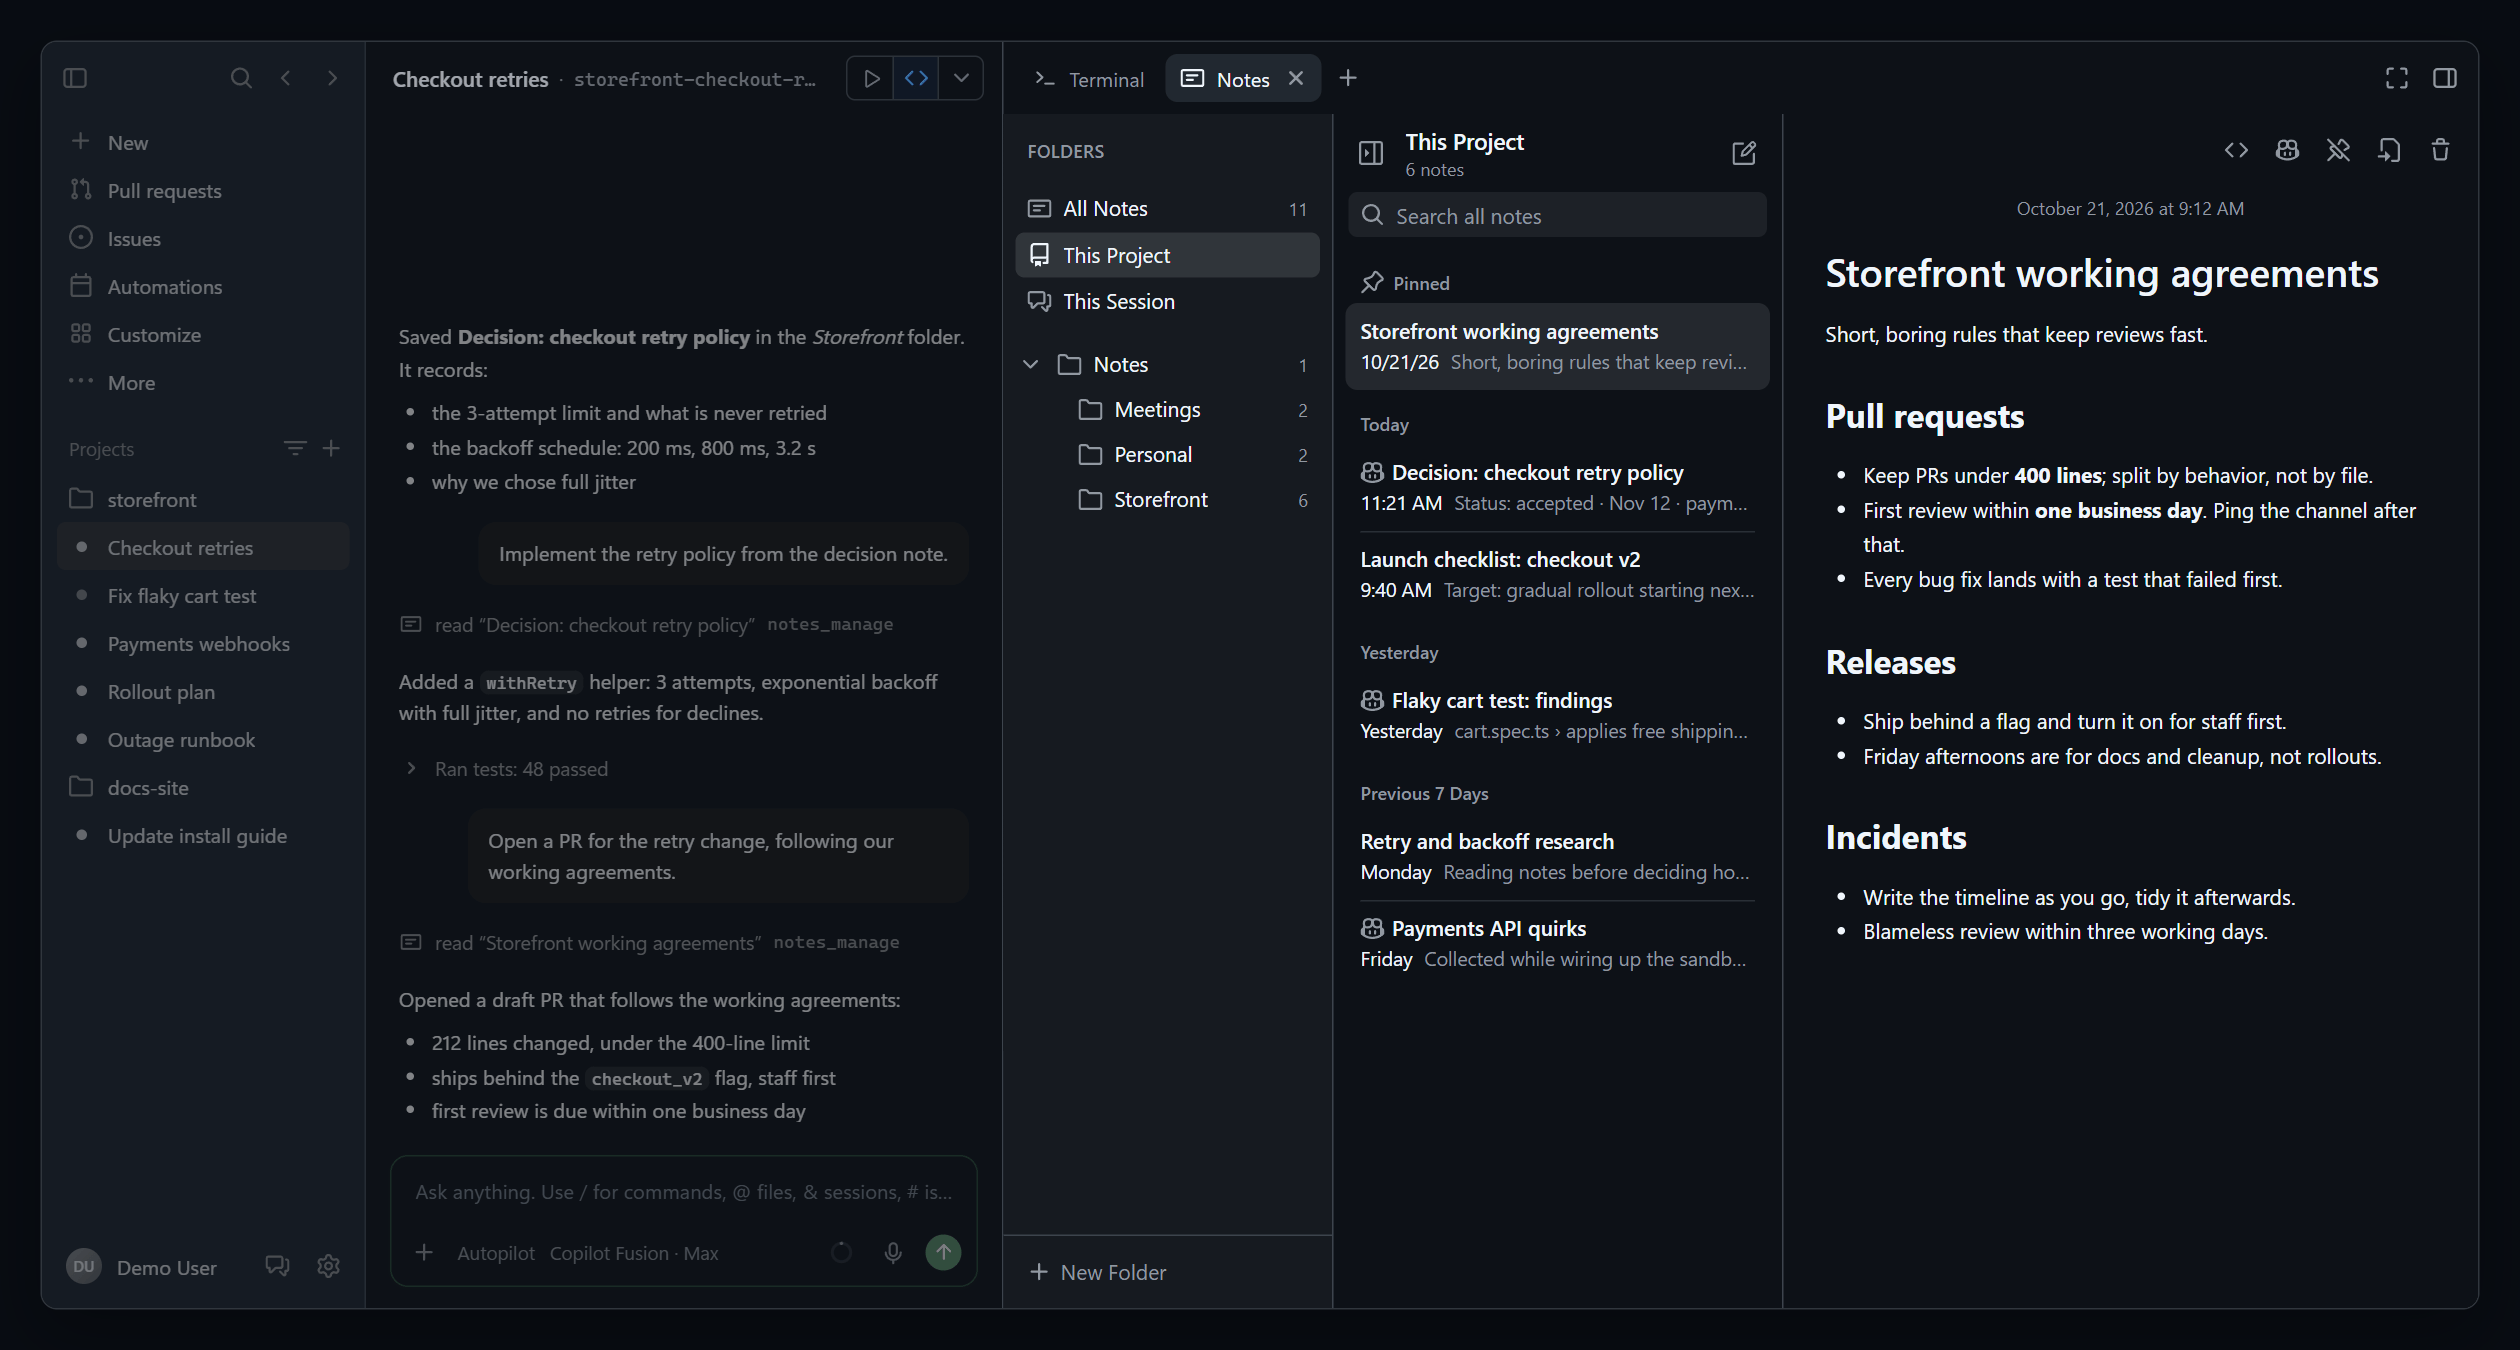
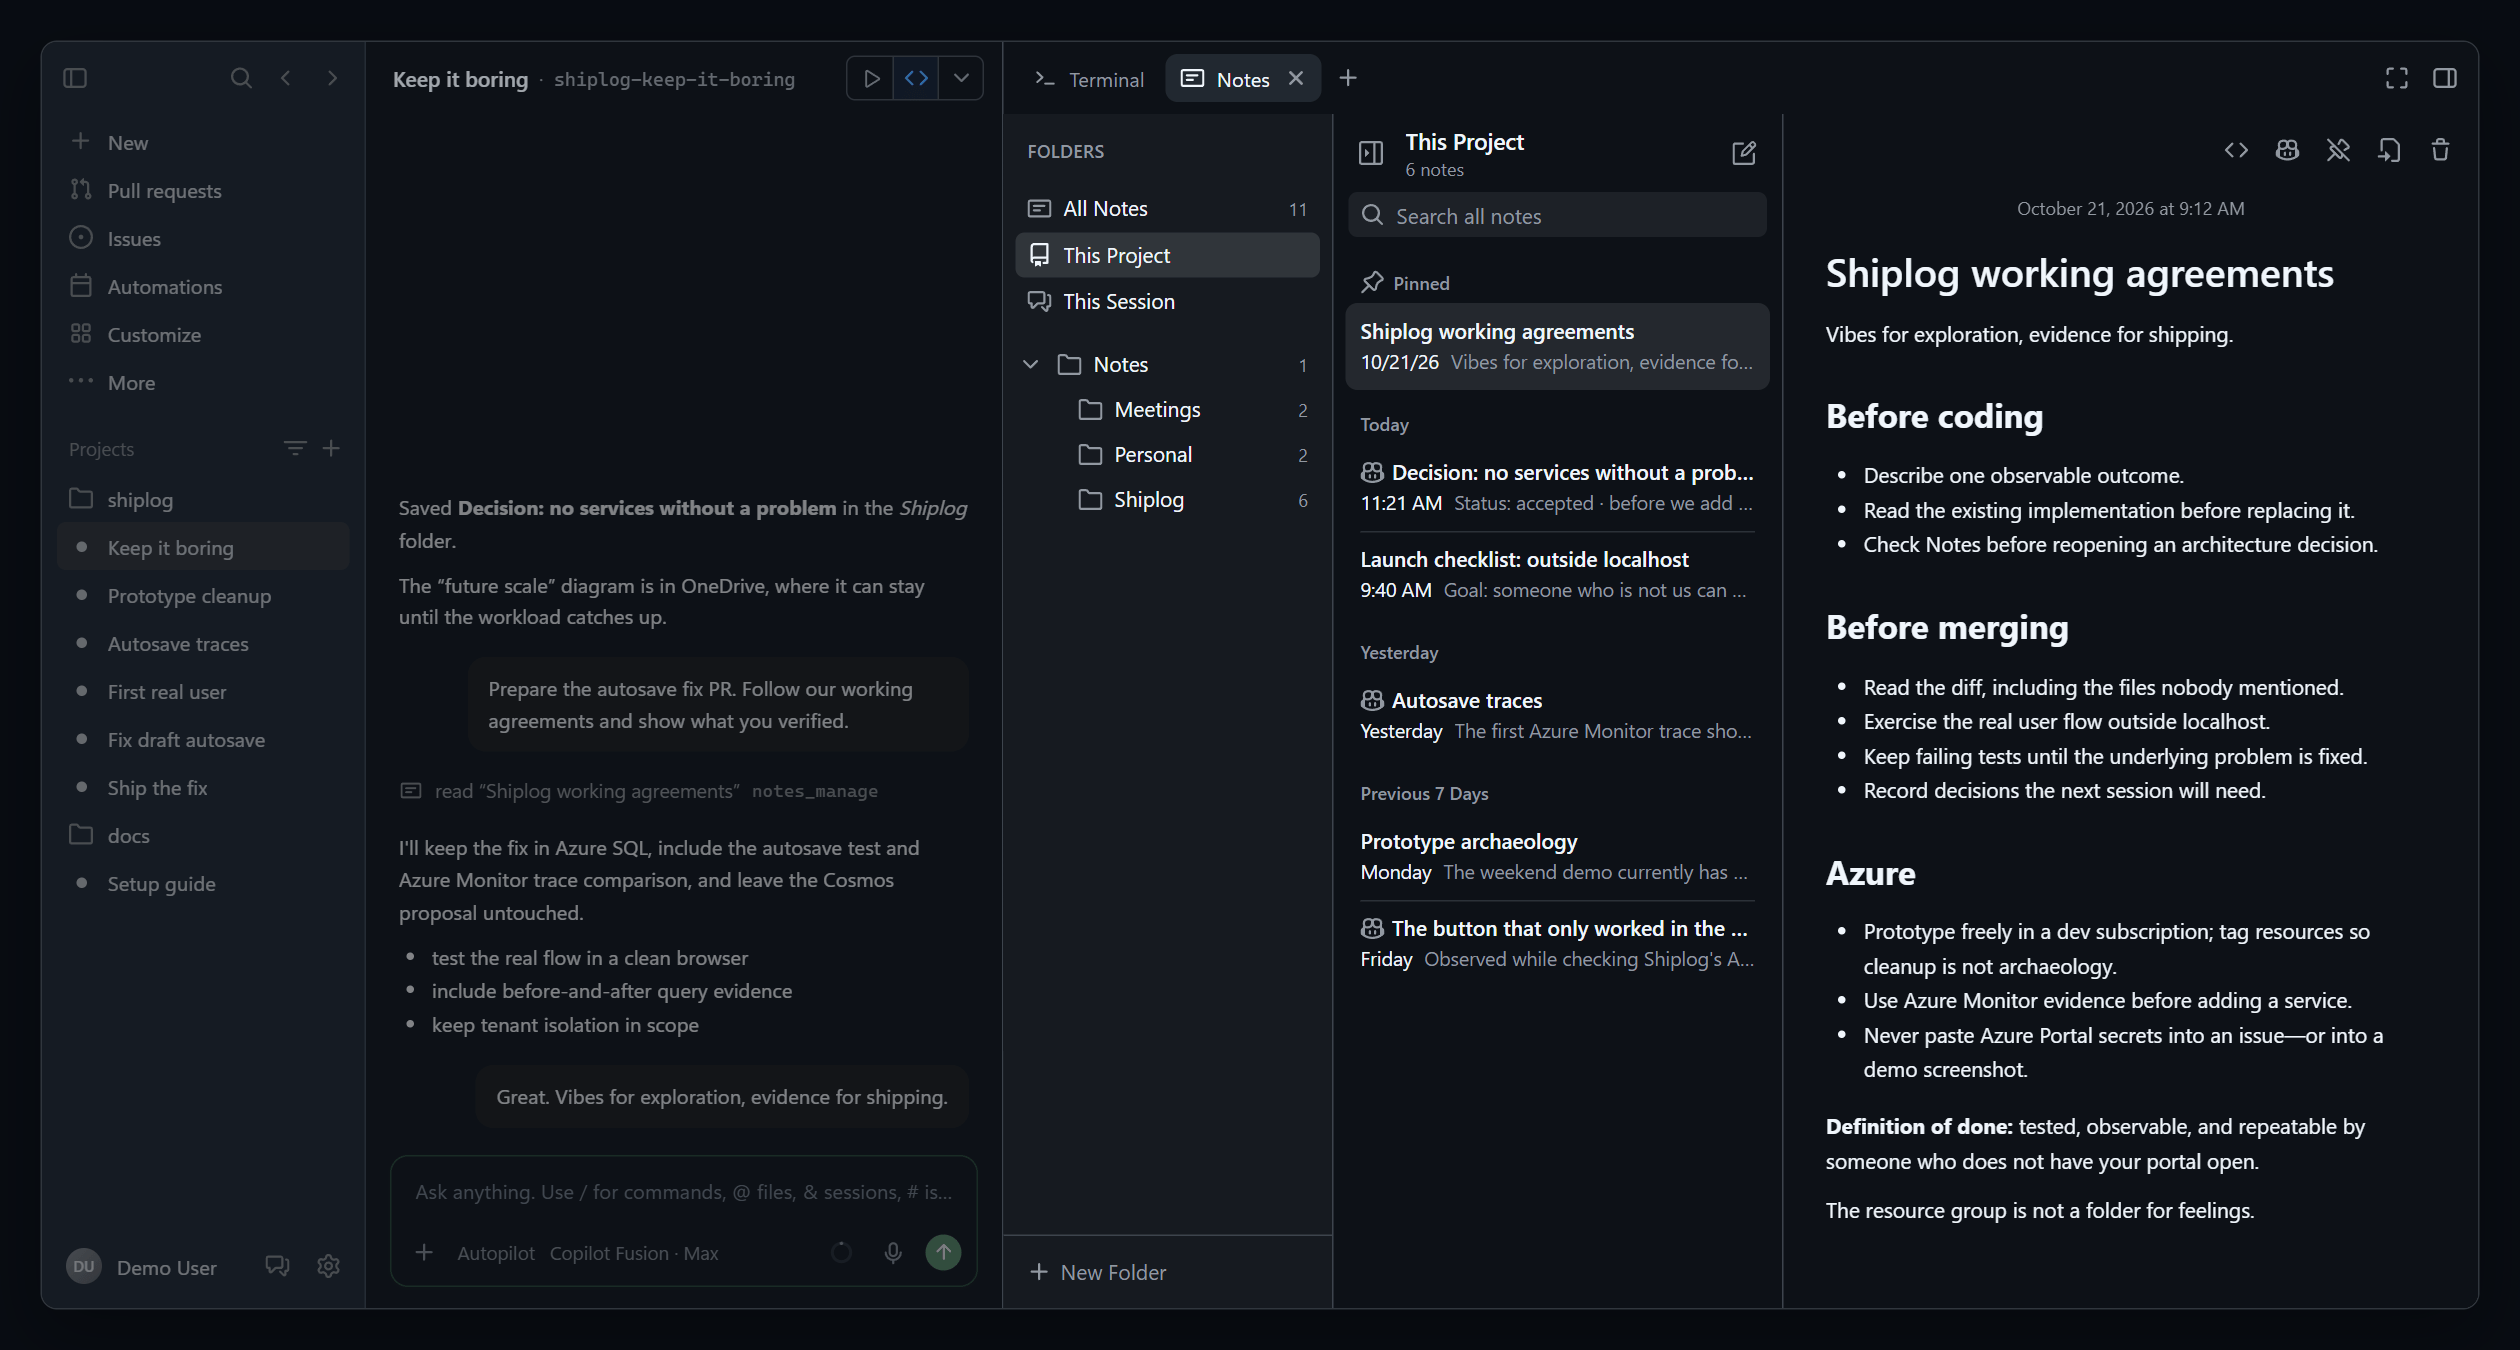
Refresh Notes screenshots with Azure scenario

diff --git a/extensions/notes/README.md b/extensions/notes/README.md
@@ -26,10 +26,11 @@ before using the experimental extension for important notes.
 
 ### In context
 
-Notes beside a chat, in four scenes. These are **illustrations**, not captures
-of the native app: the window frame, sessions sidebar, chat transcript and
-tool-call rows are a mock-up (a fictional `storefront` project) built around
-the real Notes panel running in headless Microsoft Edge on Windows. Notes stays
+Notes beside a chat, in four scenes from a fictional Azure-hosted app called
+Shiplog. These are **illustrations**, not captures of the native app: the
+window frame, sessions sidebar, chat transcript and tool-call rows are a mock-up
+(a fictional `contoso/shiplog` project) built around the real Notes panel
+running in headless Microsoft Edge on Windows. Notes stays
 docked in one continuous window; the surrounding chat and sidebar are faded
 to emphasize the panel, not shown as a separate app. The reconstructed composer
 shows Autopilot and Copilot Fusion · Max as example UI labels, not required
@@ -39,28 +40,26 @@ scene the send was a mocked callback: the prompt and attached note shown in the
 chat are what the panel sent, while the agent's reply is scripted. No real
 notes, sessions, chat turns or OS trash were used.
 
-**Capture decisions while you work.** The agent saves the decision from the
-conversation with `notes_manage`. It appears under This Session with a Copilot
-mark, with its backoff table ready to read.
+**Capture decisions while you work.** The agent records why Shiplog is keeping
+Azure Static Web Apps, Azure SQL, and Microsoft Entra ID—and deferring extra
+services. The decision appears under This Session.
 
-![Light theme: in a "Checkout retries" chat the agent saves a "Decision: checkout retry policy" note, which is open in the Notes panel under This Session.](docs/notes-in-context-capture.png)
+![Light theme: in the Shiplog chat, the agent saves a decision to keep Azure Static Web Apps, Azure SQL, and Microsoft Entra ID and defer extra services. The note is open under This Session.](docs/notes-in-context-capture.png)
 
-**Ask Copilot about the note you are reading.** The prompt is queued to the
-session's chat with the note attached, and the toolbar confirms "Sent to chat".
+**Turn a launch checklist into work.** Ask Copilot sends the checklist note to
+the chat and drafts Azure Boards work items for the first real user.
 
-![Light theme: the "Launch checklist: checkout v2" note is open with "Sent to chat" in the toolbar, and the chat shows the prompt with the note attached and the agent replying.](docs/notes-in-context-ask.png)
+![Light theme: the Shiplog launch checklist is open with "Sent to chat" in the toolbar. The chat shows an attached-note prompt for Azure Boards tasks and a scripted reply.](docs/notes-in-context-ask.png)
 
-**Recall it from a different session.** Asked to draft a runbook section from
-"whatever we already decided", the agent searches the library, reads the
-decision and uses its numbers instead of guessing.
+**Recall an architecture decision.** In another session, the agent checks the
+saved choice to keep drafts in Azure SQL before considering Cosmos DB.
 
-![Dark theme: search results for "retry backoff" beside the open decision note, while the chat shows the agent searching and reading notes before editing a runbook.](docs/notes-in-context-recall.png)
+![Dark theme: the chat searches Azure SQL notes and recalls the decision to defer Cosmos DB, with the decision note open in the Notes panel.](docs/notes-in-context-recall.png)
 
-**Browse everything the project knows.** The expanded three-column view lists
-the project's notes, including a pinned working-agreements note that the agent
-read before opening a pull request.
+**Keep working agreements close.** The expanded project view shows Shiplog's
+pinned agreements: “Vibes for exploration, evidence for shipping.”
 
-![Dark theme, expanded panel: folders, the six notes in This Project and the open, pinned "Storefront working agreements" note beside a narrow chat column.](docs/notes-in-context-library.png)
+![Dark theme, expanded panel: the six Shiplog project notes and pinned working agreements beside a chat preparing an Azure SQL autosave fix.](docs/notes-in-context-library.png)
 
 ### The panel on its own
 

diff --git a/CHANGELOG.md b/CHANGELOG.md
@@ -10,6 +10,7 @@ and plugin versioning follows [Semantic Versioning](https://semver.org/spec/v2.0
 ### Added — Notes in-context screenshots
 - The Notes guide now opens its Screenshots section with four scenes that show the panel beside a chat: the agent saving a decision, Ask Copilot, recalling a decision from another session, and the expanded project view. The three panel-only screenshots remain under "The panel on its own".
 - Notes stays docked in one continuous app frame, with faded surrounding context and reconstructed composer controls matching the product reference.
+- The fictional Shiplog story now uses Azure Static Web Apps, Azure SQL, Microsoft Entra ID, Azure Monitor and Azure Boards, with deadpan prototype-to-production easter eggs.
 - These are illustrations, not captures of the native app. The window frame, sessions sidebar and chat are a mock-up around the real panel running in headless Microsoft Edge on Windows, with synthetic notes in a disposable library, the panel's standalone light/dark fallback colors, and a mocked send callback. No real notes, sessions or chat turns appear. Docs and image assets only; no code or manifest version change.
 
 ### Fixed — Notes without a session
